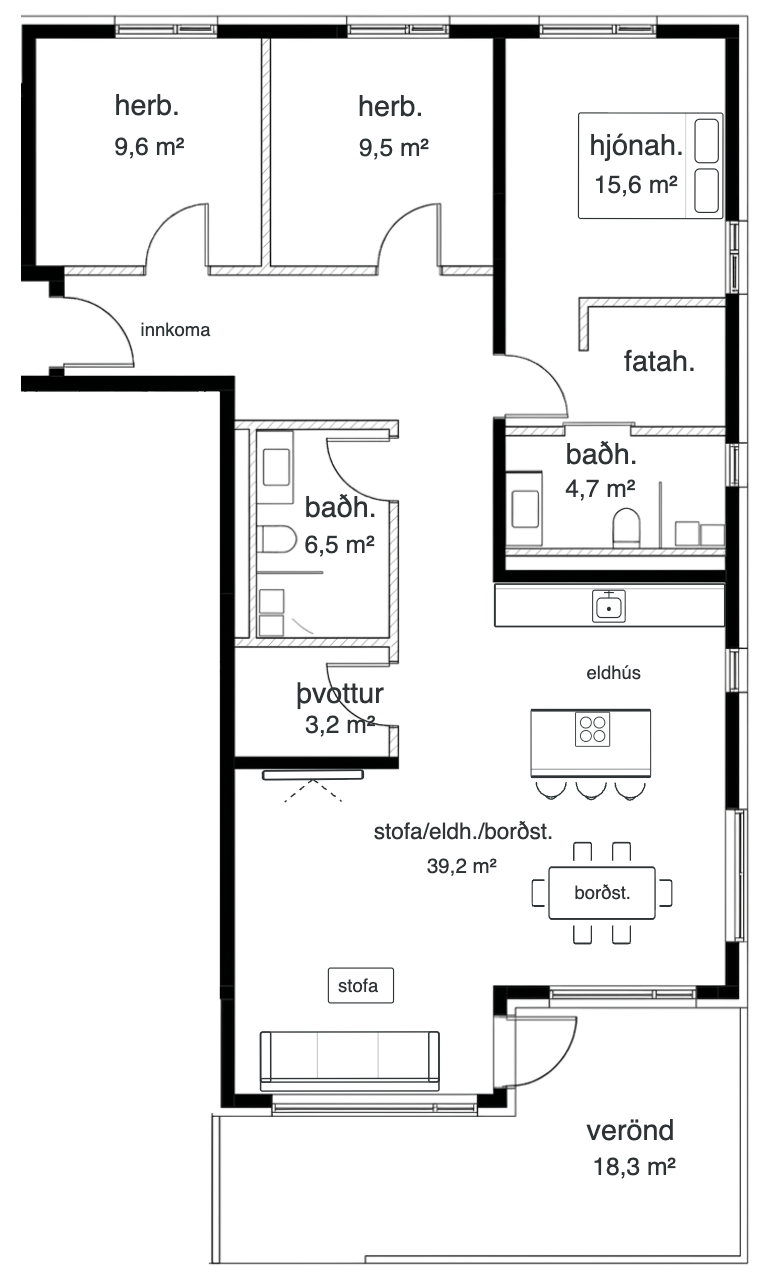
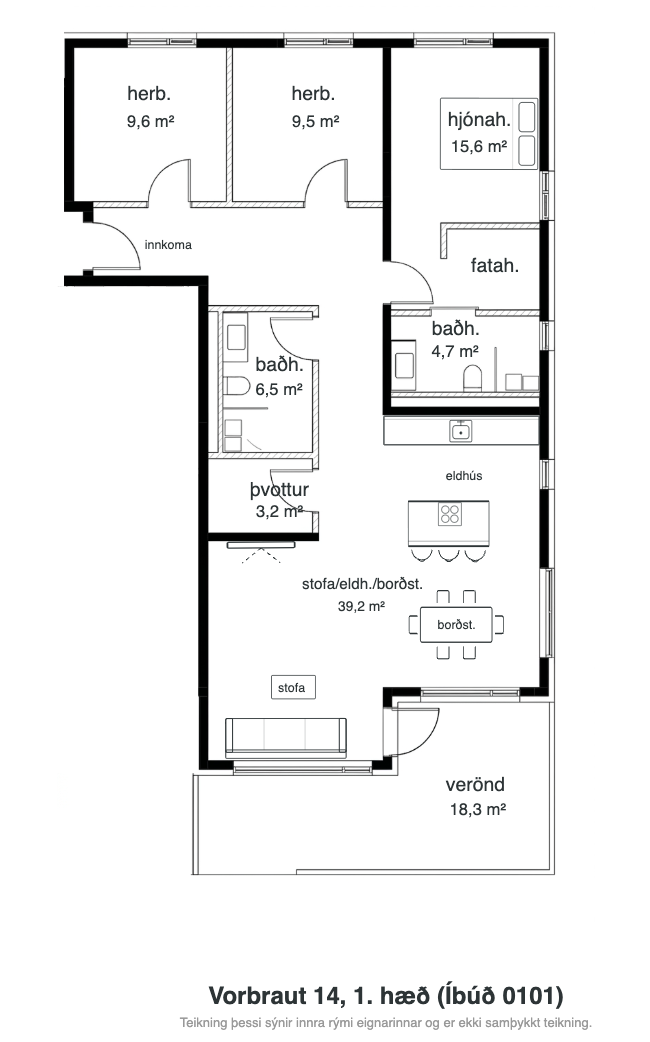
1.–2. hæð: grunnmyndir með titilreit (sjálfvirkt skornar að íbúð)
Skipt yfir í „með titli“-útgáfurnar (Vorbraut 14, X. hæð (Íbúð XXXX) +
fyrirvari, með fermetrum) fyrir allar íbúðir á 1. og 2. hæð, eins og
óskað var. Landslags-teikningarnar (1920×1080) með auðu svæði til hliðanna
voru sjálfvirkt skornar að efni (+3% spássía) svo þær fylli íbúðagluggann
vel. Handstilltu rammarnir (PLAN_ADJ) fyrir 0101–0104 og 0201–0204 voru
fjarlægðir → sjálfgefið "contain". Cache-token plana hækkað (?r=4 → ?r=5).

Claude-Session: https://claude.ai/code/session_012UErLvcLwX19G13qbaHqEy

Changed region(s): [[0.0, 0.0, 0.9846, 1.0]]

diff --git a/index.html b/index.html
@@ -290,11 +290,11 @@
     <img id="planZoomImg" decoding="async" src="" alt="" />
   </div>
 
-  <script defer src="js/data.js?v=142"></script>
+  <script defer src="js/data.js?v=143"></script>
   <script defer src="js/content.js?v=142"></script>
   <script defer src="js/supabase-config.js?v=141"></script>
   <script defer src="js/vbsupa.js?v=141"></script>
-  <script defer src="js/app.js?v=142"></script>
+  <script defer src="js/app.js?v=143"></script>
   <script defer src="js/cine.js?v=146"></script>
   <!-- þróunartól (facade-/grunnmynda-ritlar) hlaðast AÐEINS þegar eigandinn bætir ?edit/?planedit/?mask við slóðina — gestir sækja ekkert -->
   <script>[['edit','calibrate'],['planedit','planedit'],['mask','maskedit']].forEach(function(p){if(new RegExp('[?&]'+p[0]+'\\b').test(location.search)){var s=document.createElement('script');s.src='js/'+p[1]+'.js?v=141';document.body.appendChild(s);}});</script>

diff --git a/js/data.js b/js/data.js
@@ -146,11 +146,7 @@ try {
    x/y = staðsetning efra-vinstra horns, w/h = stærð ramma — allt í % af reit.
    localStorage ('vb-planimg') yfirskrifar þetta á meðan verið er að fínstilla. */
 const PLAN_ADJ = {
-  // 1. hæð (0101–0104): nýjar grunnmyndir eru þétt-skornar að íbúðinni → sjálfgefið "contain" passar best (engin handstilling).
-  '0201': { x: -35.9, y: -8.2, w: 121.3, h: 101.5 },
-  '0202': { x: 23.4,  y: -6.3, w: 107.3, h: 100.9 },
-  '0203': { x: 21.4,  y: 0,    w: 57.1,  h: 95.2 },
-  '0204': { x: 14.1,  y: 1.5,  w: 70.4,  h: 95.3 },
+  // 1.–2. hæð (0101–0104, 0201–0204): nýjar grunnmyndir (með titilreit) eru þétt-skornar → sjálfgefið "contain" passar best (engin handstilling).
   '0301': { x: -37.2, y: -3.7, w: 113.5, h: 95   },
   '0302': { x: 20.3,  y: -8.4, w: 109.1, h: 102.6 },
   '0303': { x: 12.3,  y: 3.8,  w: 66.7,  h: 90.3 },

diff --git a/js/app.js b/js/app.js
@@ -399,7 +399,7 @@
   function applyPlanView() {
     const a = currentApt; if (!a) return;
     if (planView === 'tex' && a.tex) planImg.src = 'assets/plans_tex/' + a.tex + '?r=2';
-    else { planView = 'line'; planImg.src = 'assets/plans/' + a.plan + '?r=4'; }
+    else { planView = 'line'; planImg.src = 'assets/plans/' + a.plan + '?r=5'; }
     if (planView_el) $$('.aptm__pvbtn', planView_el).forEach((b) => b.classList.toggle('is-on', b.dataset.view === planView));
     requestAnimationFrame(() => setPlanFrame(a.id));
   }

diff --git a/js/planedit.js b/js/planedit.js
@@ -69,7 +69,7 @@
     const lbl = root.querySelector('.pe__planlbl');
     const file = selId && aptPlan[selId];
     if (file) {
-      const src = 'assets/plans/' + file + '?r=4';
+      const src = 'assets/plans/' + file + '?r=5';
       if (img.getAttribute('src') !== src) img.src = src;
       img.hidden = false; empty.hidden = true; lbl.textContent = 'Grunnmynd · íbúð ' + selId;
     } else {
